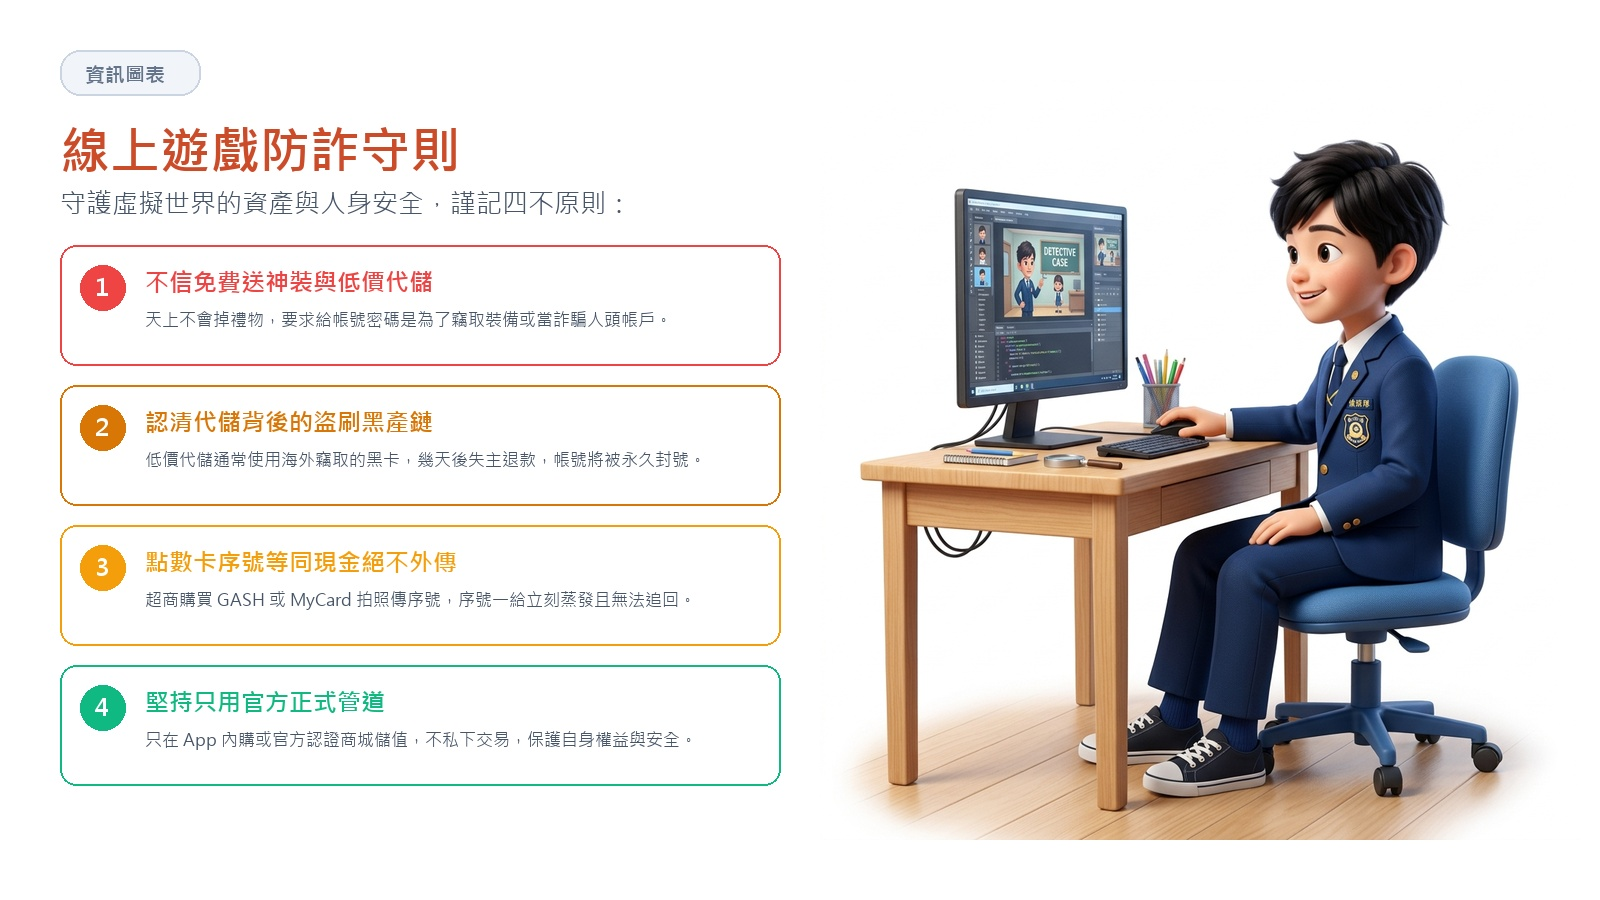
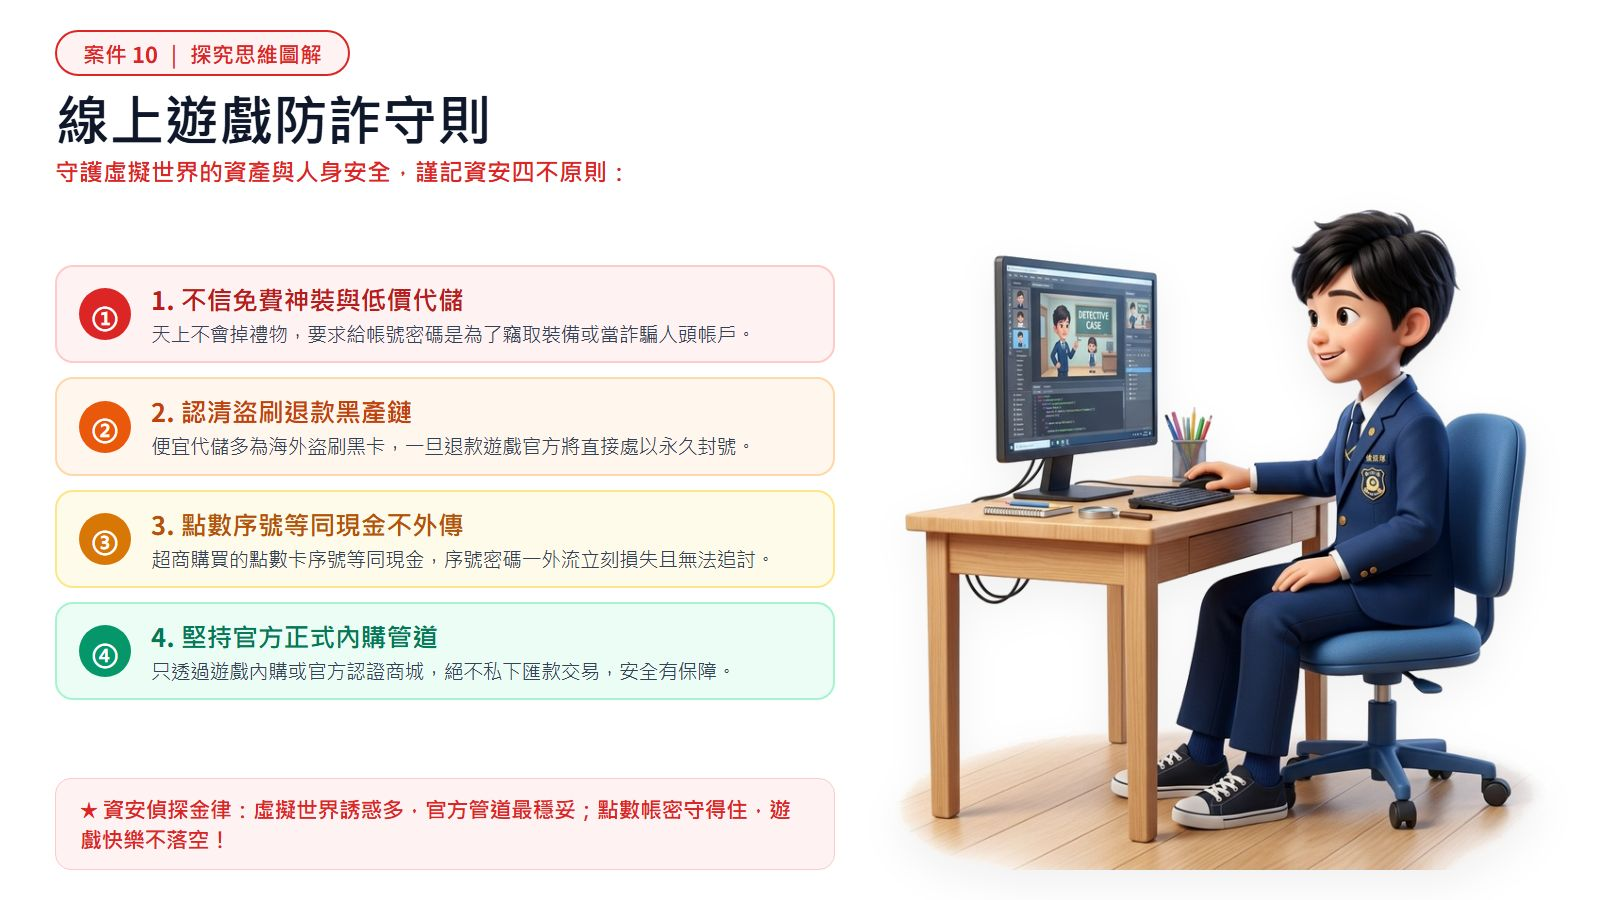
feat(case10): 升級案件10探究簡報與思維圖解為3D皮克斯電腦桌偵探男孩與透氣大字體

diff --git a/units/g5-cyber-safety/index.html b/units/g5-cyber-safety/index.html
@@ -641,7 +641,7 @@
         {
           title: '案件 10　遊戲寶物陷阱',
           text: '免費寶物、代儲打折、帳號買賣，是學生最常遇到的遊戲詐騙。<b>官方不會私訊送寶物</b>，也不要把帳號密碼給任何人。',
-          slides: ['assets/v10_game_v2.jpg?v=20261023_full_legs'],
+          slides: ['assets/v10_game_v2.jpg?v=20261024_case10_desk_perfect'],
           interactive: GAMES.gameStory,
           quizzes: [
             {
@@ -667,7 +667,7 @@
               feedback: '先切斷外洩管道（改密碼＋開 2FA），再清查影響範圍與通知聯絡人，避免災害擴散。'
             }
           ],
-          infographic: 'assets/i10_game_v3.jpg?v=20261023_v3?v=20261023f',
+          infographic: 'assets/i10_game_v3.jpg?v=20261024_case10_desk_perfect',
           teacherTips: ['我是反詐騙設計師：分組設計一張給阿公阿嬤或低年級看的防詐海報，或 30 秒短劇，下次課發表。']
         },
         {

diff --git a/handoff.md b/handoff.md
@@ -102,21 +102,27 @@
     - 經 Kristy 檢視預覽確認許可（"OK"）後，正式覆蓋並更新 `index.html` 快取碼 `?v=20261024_case9_flawless_perfect`。
 - 已全自動完成 `git commit`、`git push origin main` 與 Google 雲端硬碟 `robocopy` 雙重備份！
 
+- **依據 Kristy 最新指導完成案件 10（遊戲點數與代儲陷阱·3D皮克斯電腦桌偵探男孩·透氣大字體）全面升級上線（2026-10-24 15:47）**：
+  - **角色與場景 100% 完整無缺口**：3D 皮克斯小男孩偵探專心坐在電腦桌前，整張木桌、電腦螢幕、筆筒、椅子與雙腳鞋底完好無損，木地板柔和羽化淡出，無任何白塊裁切或硬邊。
+  - **大字體與透氣排版**：大標題 `55px`、副標題 `24px`、卡片標題 `25.5px`、內文 `19.5px`；內容精煉，行距舒服透氣，完全不擁擠。
+  - **充裕呼吸留白**：左側卡片區與右側電腦螢幕之間保留超過 **100px** 的黃金留白，零遮擋、不貼邊。
+  - **快取碼刷新與上線**：經 Kristy 檢視預覽確認許可（"OK"）後，正式覆蓋並更新 `index.html` 快取碼 `?v=20261024_case10_desk_perfect`。
+- 已全自動完成 `git commit`、`git push origin main` 與 Google 雲端硬碟 `robocopy` 雙重備份！
+
 ## 🚦 目前狀態
-- 案件 1、案件 2、案件 3、案件 4、案件 5、案件 6、案件 7、案件 8、案件 9 的所有投影片與資訊圖表皆已完美定稿、對齊無遮擋並發布至 GitHub Pages！
+- **案件 1 ~ 案件 10** 的所有探究簡報與思維圖解已全套完美升級、對齊無遮擋並發布至 GitHub Pages！
 - 教學影片播放清單（含《2020》網路危機等 4 部短片）已上線。
 
 ## ➡ 下一步
-1. 推進 **案件 10（遊戲寶物交易）** 與 **案件 11（群組旁觀者）** 的圖片檢視與補齊投影片。
-2. 案件 10（遊戲寶物陷阱）：目前僅有 `v10_game_v2.jpg`，需規劃標準四彩大卡片探究簡報與思維圖解。
-3. 案件 11（網路霸凌旁觀者）：目前僅有 `v11_bully_v2.jpg`，需規劃標準探究簡報與思維圖解。
+1. 推進 **案件 11（群組裡的旁觀者·網路霸凌預防）** 的探究簡報與思維圖解升級，完成全套 11 個案件的完美大收官！
+2. 檢查 `units/g5-cyber-safety/assets/v11_bully_v2.jpg` 與 `i11_group.jpg`，升級為標準四彩大卡片、透氣排版與純白底無裁切 3D 角色。
 
 ## ⚠ 注意事項
 - 嚴格遵守「做好先給 Kristy 看，確認後才放」原則。
 - 所有插圖角色自然多元（小男孩、小女孩、阿嬤、同儕），全數統一為 16:9 純白底繪本規格。
 
 ## 🕐 最後更新
-- 時間：2026-10-24 15:35
+- 時間：2026-10-24 15:47
 - 更新者：Antigravity @ LAPTOP-IUMJF2MM
 
 
